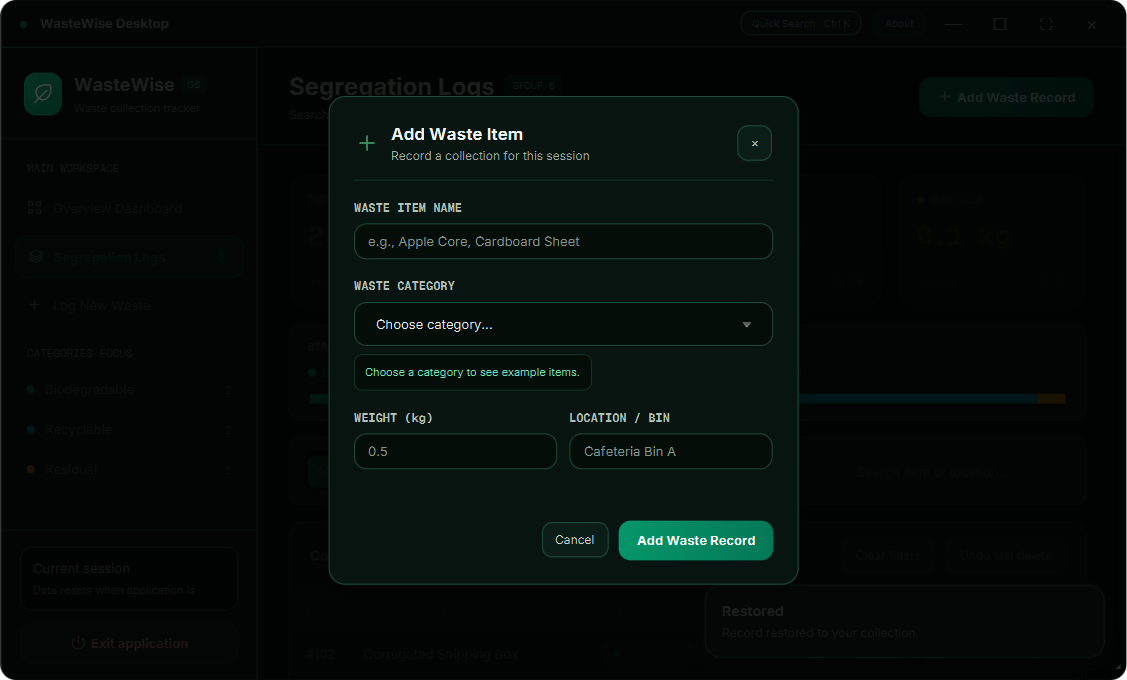
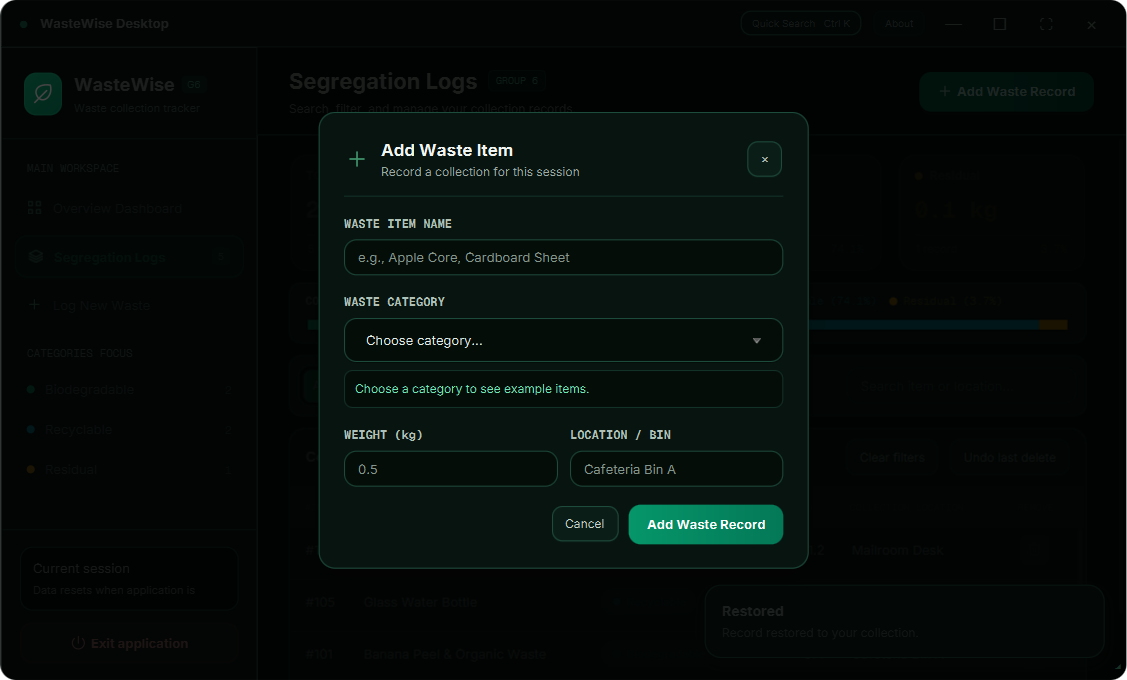
fixed inconsistencies on the interface

diff --git a/src/main/resources/com/group6/wastewise/theme.css b/src/main/resources/com/group6/wastewise/theme.css
@@ -238,3 +238,27 @@
 .about-details { -fx-background-color: #050d09; }
 .about-details .heap-text { -fx-text-fill: #34d399; }
 .toast { -fx-background-color: #0b1d17; -fx-border-color: #1e4d3d; }
+
+/* Consistent rhythm, category colors, and compact records layout. */
+.page-header,.dark-workspace .page-header { -fx-padding: 20 30; -fx-min-height: 88; -fx-pref-height: 88; }
+.page-title,.dark-workspace .page-title { -fx-font-size: 22px; }
+.rec-text { -fx-text-fill: #22d3ee; }
+.rec-badge { -fx-background-color: #ecfeff; -fx-border-color: #a5f3fc; -fx-text-fill: #155e75; }
+.logs-content { -fx-padding: 16 30; }
+.dark-workspace .inventory-stat { -fx-padding: 12 14; }
+.dark-workspace .stat-value { -fx-font-size: 23px; }
+.stat-foot { -fx-padding: 6 0 0 0; }
+.stat-foot .label { -fx-font-size: 11px; }
+.distribution-card { -fx-padding: 10 16; }
+.distribution-legend .label { -fx-font-size: 11px; }
+.dark-workspace .records-toolbar { -fx-padding: 8; }
+.dark-workspace .records-heading { -fx-padding: 10 16; }
+.dark-workspace .ledger-footer { -fx-padding: 9 16; }
+.dark-workspace .quiet:disabled { -fx-opacity: .65; }
+.dark-workspace .table-view .arrow { -fx-background-color: #a9c1b5; }
+.dark-workspace .delete-button:hover SVGPath { -fx-stroke: #fda4af; }
+.dark-workspace .card-link:hover .inventory-stat { -fx-border-color: #34d399; }
+.dark-workspace .card-link:focused { -fx-border-color: #6ee7b7; }
+.dark-workspace .scroll-bar .thumb { -fx-background-color: #47675a; }
+.category-helper { -fx-font-size: 12px; }
+.about-details .progress-bar > .track { -fx-background-color: #143329; }

diff --git a/src/main/java/com/group6/wastewise/WasteWiseApp.java b/src/main/java/com/group6/wastewise/WasteWiseApp.java
@@ -208,7 +208,7 @@ public class WasteWiseApp extends Application {
         body.getStyleClass().add("body-content"); body.setId("overview-page"); body.getChildren().addAll(metrics(), recentActivity());
         scroll.setContent(body); scroll.setFitToWidth(true); scroll.setHbarPolicy(ScrollPane.ScrollBarPolicy.NEVER); scroll.getStyleClass().add("workspace-scroll");
         logsPage = ledger(); logsPage.setId("logs-page");
-        logsPage.setMinHeight(590);
+        logsPage.setMinHeight(Region.USE_COMPUTED_SIZE);
         logsScroll.setContent(logsPage); logsScroll.setFitToWidth(true); logsScroll.setFitToHeight(true);
         logsScroll.setHbarPolicy(ScrollPane.ScrollBarPolicy.NEVER); logsScroll.getStyleClass().add("workspace-scroll");
         workspacePane = new BorderPane(scroll); workspacePane.setTop(header); workspacePane.getStyleClass().add("workspace"); return workspacePane;
@@ -249,7 +249,7 @@ public class WasteWiseApp extends Application {
         }
     }
     private HBox inventoryStats() {
-        HBox stats = new HBox(14);
+        HBox stats = new HBox(14); stats.setMinHeight(118); stats.setPrefHeight(118); stats.setMaxHeight(118);
         VBox all = column(10,label("TOTAL COLLECTION","stat-caption"),logsTotal,statFoot(logsCount,label("All waste","muted"))); all.getStyleClass().addAll("inventory-stat","total-stat");
         stats.getChildren().add(categoryLink(all,null,"logs-all"));
         for (Category c : Category.values()) {
@@ -264,7 +264,7 @@ public class WasteWiseApp extends Application {
         HBox foot = row(4,count,spacer(),share); foot.getStyleClass().add("stat-foot"); return foot;
     }
     private VBox distributionCard() {
-        FlowPane legend = new FlowPane(16,6);
+        FlowPane legend = new FlowPane(12,6); legend.getStyleClass().add("distribution-legend"); legend.setPrefWrapLength(490); legend.setMinWidth(490);
         for (Category c : Category.values()) {
             Label value = label("",c.style()+"-text mono"); ratioLabels.put(c,value);
             legend.getChildren().add(row(6,dot(c),value));
@@ -272,7 +272,7 @@ public class WasteWiseApp extends Application {
         StackPane track = new StackPane(distribution); track.getStyleClass().add("distribution-track");
         distribution.widthProperty().bind(track.widthProperty().subtract(4));
         distribution.widthProperty().addListener((o,a,b) -> drawDistribution());
-        VBox card = column(10,label("STREAM WEIGHT DISTRIBUTION","distribution-title mono"),legend,track);
+        VBox card = column(10,row(12,label("COLLECTION BY WEIGHT","distribution-title mono"),spacer(),legend),track);
         card.getStyleClass().add("distribution-card"); return card;
     }
     private void drawDistribution() {
@@ -290,7 +290,7 @@ public class WasteWiseApp extends Application {
         link.setId(id); link.setGraphic(content); link.setMaxSize(Double.MAX_VALUE,Double.MAX_VALUE); link.setMinWidth(0);
         content.setMaxSize(Double.MAX_VALUE,Double.MAX_VALUE);
         content.prefWidthProperty().bind(link.widthProperty().subtract(4));
-        content.prefHeightProperty().bind(link.heightProperty().subtract(4));
+
         link.setAccessibleText(category == null ? "View all records" : "View " + category + " records");
         link.setTooltip(new Tooltip(link.getAccessibleText()));
         return link;
@@ -324,7 +324,7 @@ public class WasteWiseApp extends Application {
             Label pct = label("0.0% of total", "category-pct mono"); percentages.put(c, pct);
             Label name = label(c.toString(), "category-name " + c.style() + "-text");
             VBox card = column(6, row(6, dot(c), name), row(5, weight, label("kg", "category-pct mono")), pct);
-            card.getStyleClass().add("category-card"); card.setMaxWidth(Double.MAX_VALUE); Button link = categoryLink(card,c,"overview-"+c.style()); link.setMinHeight(124); HBox.setHgrow(link, Priority.ALWAYS); categories.getChildren().add(link);
+            card.getStyleClass().add("category-card"); card.setMaxWidth(Double.MAX_VALUE); Button link = categoryLink(card,c,"overview-"+c.style()); link.setMinHeight(124); link.setPrefHeight(124); link.setMaxHeight(124); card.setPrefHeight(120); card.setMaxHeight(120); HBox.setHgrow(link, Priority.ALWAYS); categories.getChildren().add(link);
         }
         Region heroSpace = new Region(); VBox.setVgrow(heroSpace,Priority.ALWAYS); heroContent.getChildren().addAll(heroSpace,categories);
         Node watermark = icon("leaf","#34d399",230); watermark.setOpacity(.08); watermark.setMouseTransparent(true); StackPane.setAlignment(watermark,Pos.BOTTOM_RIGHT);
@@ -336,7 +336,7 @@ public class WasteWiseApp extends Application {
         StackPane ring = new StackPane(donut, center); VBox.setVgrow(ring, Priority.ALWAYS); ring.setMinHeight(190);
         HBox legend = row(16, row(5, dot(Category.BIODEGRADABLE), label("Bio", "legend")), row(5, dot(Category.RECYCLABLE), label("Rec", "legend")), row(5, dot(Category.RESIDUAL), label("Res", "legend"))); legend.setAlignment(Pos.CENTER); legend.getStyleClass().add("chart-legend");
         chart.getChildren().addAll(chartHeading, ring, legend);
-        HBox metricRow = new HBox(24, hero, chart); chart.prefWidthProperty().bind(metricRow.widthProperty().subtract(48).divide(3)); return metricRow;
+        HBox metricRow = new HBox(24, hero, chart); metricRow.setMinHeight(326); metricRow.setPrefHeight(326); metricRow.setMaxHeight(326); chart.prefWidthProperty().bind(metricRow.widthProperty().subtract(48).divide(3)); return metricRow;
     }
     private VBox ledger() {
         VBox ledger = new VBox(); ledger.getStyleClass().add("ledger");
@@ -349,7 +349,7 @@ public class WasteWiseApp extends Application {
         search.setMinWidth(155); search.setPrefWidth(230); HBox.setHgrow(search,Priority.SOMETIMES);
         clearFilters.setId("clear-filters");
         HBox tableHeading = row(12,label("Collection records","section-title"),spacer(),clearFilters,undo); tableHeading.getStyleClass().add("records-heading");
-        table.setId("waste-table"); table.setColumnResizePolicy(TableView.CONSTRAINED_RESIZE_POLICY_FLEX_LAST_COLUMN); table.setFixedCellSize(52); table.setMinHeight(160); table.setPrefHeight(420); VBox.setVgrow(table,Priority.ALWAYS);
+        table.setId("waste-table"); table.setColumnResizePolicy(TableView.CONSTRAINED_RESIZE_POLICY_FLEX_LAST_COLUMN); table.setFixedCellSize(52); table.setMinHeight(200); table.setPrefHeight(200); VBox.setVgrow(table,Priority.ALWAYS);
         TableColumn<Waste,String> id = textColumn("#ID", w -> "#" + w.getId(), 65); id.setMaxWidth(80);
         id.setComparator(Comparator.comparingInt(value -> Integer.parseInt(value.substring(1))));
         TableColumn<Waste,String> name = textColumn("WASTE NAME / ITEM", Waste::getWasteName, 245);
@@ -366,13 +366,13 @@ public class WasteWiseApp extends Application {
         weight.setCellValueFactory(v -> new javafx.beans.property.ReadOnlyObjectWrapper<>(v.getValue().getWeight()));
         weight.setCellFactory(c -> new TableCell<>() {
             { setStyle("-fx-alignment: CENTER-RIGHT;"); }
-            @Override protected void updateItem(Double value, boolean empty) { super.updateItem(value,empty); setText(empty || value == null ? null : format(value)); }
+            @Override protected void updateItem(Double value, boolean empty) { super.updateItem(value,empty); setText(empty || value == null ? null : format(value)); setTooltip(empty || value == null ? null : new Tooltip(value + " kg")); }
         });
         TableColumn<Waste,String> location = textColumn("COLLECTION LOCATION", Waste::getLocation, 175);
         TableColumn<Waste,Void> actions = new TableColumn<>("REMOVE"); actions.setMinWidth(72); actions.setPrefWidth(75); actions.setMaxWidth(85); actions.setSortable(false);
         actions.setCellFactory(c -> new TableCell<>() {
             private final Button remove = button("", "delete-button", () -> { Waste w = getTableRow().getItem(); if (w != null) delete(w); });
-            { remove.setGraphic(icon("trash", "#40916c", 16)); remove.setTooltip(new Tooltip("Remove record")); remove.setAccessibleText("Remove record"); }
+            { remove.setGraphic(icon("trash", "#9baaa3", 16)); remove.setTooltip(new Tooltip("Remove record")); remove.setAccessibleText("Remove record"); }
             @Override protected void updateItem(Void value, boolean empty) { super.updateItem(value, empty); setGraphic(empty ? null : remove); setAlignment(Pos.CENTER); }
         });
         table.getColumns().addAll(id, name, category, weight, location, actions);
@@ -381,17 +381,23 @@ public class WasteWiseApp extends Application {
         undo.setId("undo-button");
         HBox foot = row(10, footer, spacer(),label("Visible records weight", "muted"),visibleWeight); foot.getStyleClass().add("ledger-footer");
         ledger.getChildren().addAll(tableHeading, table, foot); VBox.setVgrow(ledger,Priority.ALWAYS);
-        VBox page = column(16, inventoryStats(),distributionCard(),tools,ledger); page.getStyleClass().add("logs-content");
+        VBox page = column(12, inventoryStats(),distributionCard(),tools,ledger); page.getStyleClass().add("logs-content");
         return page;
     }
     private TableColumn<Waste,String> textColumn(String title, java.util.function.Function<Waste,String> value, double width) {
-        TableColumn<Waste,String> c = new TableColumn<>(title); c.setPrefWidth(width); c.setCellValueFactory(v -> new ReadOnlyStringWrapper(value.apply(v.getValue()))); return c;
+        TableColumn<Waste,String> c = new TableColumn<>(title); c.setPrefWidth(width); c.setCellValueFactory(v -> new ReadOnlyStringWrapper(value.apply(v.getValue())));
+        c.setCellFactory(column -> new TableCell<>() {
+            @Override protected void updateItem(String text, boolean empty) {
+                super.updateItem(text,empty); setText(empty ? null : text);
+                setTooltip(empty || text == null ? null : new Tooltip(text));
+            }
+        }); return c;
     }
     private ToggleButton filter(String text, Category category, ToggleGroup group) {
         ToggleButton b = new ToggleButton(text); b.getStyleClass().add("filter"); b.setToggleGroup(group); b.setOnAction(e -> setFilter(category)); filterButtons.put(category, b); return b;
     }
     private void setFilter(Category category) { selectedCategory = category; filterButtons.get(category).setSelected(true); refreshTable(); }
-    private void focusSearch() { showView(true); search.requestFocus(); }
+    private void focusSearch() { showView(true); logsScroll.setVvalue(0); Platform.runLater(search::requestFocus); }
     private void clearFilters() { search.clear(); setFilter(null); }
     private void refreshTable() {
         List<Waste> results = tracker.search(search.getText(), selectedCategory);
@@ -439,13 +445,14 @@ public class WasteWiseApp extends Application {
         ComboBox<Category> category = new ComboBox<>(FXCollections.observableArrayList(Category.values())); category.setPromptText("Choose category..."); category.setMaxWidth(Double.MAX_VALUE); category.setId("input-category");
         TextField weight = new TextField(); weight.setPromptText("0.5"); weight.setId("input-weight");
         TextField location = new TextField(); location.setPromptText("Cafeteria Bin A"); location.setId("input-location");
-        Label helper = label("Choose a category to see example items.", "category-helper"); helper.setWrapText(true); helper.setId("category-helper");
+        Label helper = label("Choose a category to see example items.", "category-helper"); helper.setWrapText(true); helper.setMaxWidth(Double.MAX_VALUE); helper.setId("category-helper");
         category.valueProperty().addListener((o,a,c) -> helper.setText(c == null ? "Choose a category to see example items." : switch(c) {
             case BIODEGRADABLE -> "Examples: fruit peels, food scraps, leaves and garden waste.";
             case RECYCLABLE -> "Examples: clean paper, cardboard, bottles and metal cans. Follow local collection rules.";
             case RESIDUAL -> "Examples: used tissues, diapers and non-recyclable wrappers.";
         }));
         Label error = label("", "validation-error"); error.setId("form-error"); error.setWrapText(true);
+        error.managedProperty().bind(error.textProperty().isNotEmpty()); error.visibleProperty().bind(error.managedProperty());
         VBox left = field("WEIGHT (kg)", weight), right = field("LOCATION / BIN", location); HBox.setHgrow(left,Priority.ALWAYS); HBox.setHgrow(right,Priority.ALWAYS);
         Button save = button("Add Waste Record", "primary", () -> {
             try {
@@ -460,21 +467,32 @@ public class WasteWiseApp extends Application {
     }
     private void openExitModal() {
         if (overlay != null) return;
-        Label warning = label("Your records are stored only for this session. Closing the application will remove all logged waste records.", "warning-copy"); warning.setWrapText(true);
-        VBox note = column(10, label("SESSION RECORDS WILL BE LOST", "warning-heading mono"), warning); note.getStyleClass().add("warning-note");
+        boolean hasRecords = !tracker.viewWaste().isEmpty();
+        Label warning = label(hasRecords ? "Closing will remove all " + tracker.viewWaste().size() + " records in this session. Records cannot be recovered after exit." : "There are no collection records in this session. You can safely close the application.", "warning-copy"); warning.setWrapText(true);
+        VBox note = column(10, label(hasRecords ? "SESSION RECORDS WILL BE LOST" : "NO RECORDS TO LOSE", "warning-heading mono"), warning); note.getStyleClass().add("warning-note");
         Button exit = button("Exit application", "danger", () -> { tracker.clear(); stage.hide(); Platform.exit(); }); exit.setId("confirm-exit");
-        VBox card = column(20, modalHeader("Exit Program Confirmation", "Your session has not been saved", "power"), label("Are you sure you want to end this tracking session?", "muted"), note, row(10, spacer(), button("Resume Tracking", "quiet", this::closeModal), exit));
+        VBox card = column(20, modalHeader("Exit WasteWise?", hasRecords ? "Records are stored for this session only" : "Your collection is empty", "power"), label("Are you sure you want to end this tracking session?", "muted"), note, row(10, spacer(), button("Resume Tracking", "quiet", this::closeModal), exit));
         showModal(card);
     }
-    private HBox modalHeader(String title, String subtitle, String icon) { HBox h = row(12, icon(icon,"#40916c",24), column(4,label(title,"modal-title"),label(subtitle,"muted")), spacer(), button("×","quiet",this::closeModal)); h.getStyleClass().add("modal-header"); return h; }
+    private HBox modalHeader(String title, String subtitle, String icon) { HBox h = row(12, icon(icon,"#40916c",24), column(4,label(title,"modal-title"),label(subtitle,"muted")), spacer(), closeDialogButton()); h.getStyleClass().add("modal-header"); return h; }
+    private Button closeDialogButton() {
+        Button close = button("×","quiet",this::closeModal); close.setAccessibleText("Close dialog");
+        close.setTooltip(new Tooltip("Close dialog (Esc)")); return close;
+    }
     private VBox field(String caption, Control control) { return column(7, label(caption,"field-label mono"), control); }
     private void showModal(VBox card) {
         focusBeforeModal = root.getScene().getFocusOwner(); shell.setDisable(true); toastArea.setDisable(true);
-        card.getStyleClass().add("modal-card"); card.setMaxSize(470,Region.USE_PREF_SIZE);
+        card.getStyleClass().add("modal-card"); card.setMaxSize(490,Region.USE_PREF_SIZE);
         overlay = new StackPane(card); overlay.getStyleClass().add("modal-overlay"); overlay.setId("modal-overlay");
         root.getChildren().add(overlay);
         FadeTransition fade = new FadeTransition(Duration.millis(160),overlay); fade.setFromValue(0); fade.setToValue(1); fade.play();
-        Platform.runLater(card::requestFocus);
+        Platform.runLater(() -> {
+            if (overlay != null) {
+                Node field = card.lookup(".text-field");
+                Node firstButton = card.lookup(".button");
+                if (field != null) field.requestFocus(); else if (firstButton != null) firstButton.requestFocus();
+            }
+        });
     }
     private void closeModal() { if (overlay != null) { root.getChildren().remove(overlay); overlay = null; shell.setDisable(false); toastArea.setDisable(false); if (focusBeforeModal != null) focusBeforeModal.requestFocus(); } }
     private void toast(String title, String message) {
@@ -553,14 +571,34 @@ public class WasteWiseApp extends Application {
             resizeWait.setOnFinished(event -> {
                 try {
                     require(root.getWidth() == 1120,"Compact viewport resized"); snapshot(dir.resolve("compact-logs.png"));
+                    require(footer.localToScene(footer.getBoundsInLocal()).getMaxY() < root.getHeight(),"Records footer visible at compact size");
                     overviewNav.fire(); snapshot(dir.resolve("compact.png"));
                     require(overviewNav.getStyleClass().contains("nav-active") && !logsNav.getStyleClass().contains("nav-active"),"Active navigation styling");
                     System.out.println("PASS: JavaFX form, validation, search, filters, delete, undo, empty state, exit cancellation and compact resize");
                     Files.writeString(dir.resolve("ui-test-result.txt"),"PASS: two-screen navigation, retained filters, visible/global totals, clear filters, numeric sorting, sorted deletion and undo, form validation, add, delete, undo, empty states, exit cancellation, compact layouts, About panel and category card navigation; 10 scene snapshots.\n");
-                    testWindowStates();
+                    testMinimumWindow(dir);
                 } catch (Throwable e) { e.printStackTrace(); Platform.exit(); System.exit(1); }
             }); resizeWait.play();
         } catch(Throwable e) { e.printStackTrace(); Platform.exit(); System.exit(1); }
+    }
+    private void testMinimumWindow(Path dir) {
+        stage.setHeight(640);
+        windowCheckLater(() -> {
+            try {
+                logsNav.fire(); root.applyCss(); root.layout(); logsScroll.setVvalue(1);
+                snapshot(dir.resolve("minimum-logs.png"));
+                require(footer.localToScene(footer.getBoundsInLocal()).getMaxY() < root.getHeight(),"Footer reachable at minimum window size");
+                openAddModal();
+                ((ComboBox<Category>)root.lookup("#input-category")).setValue(Category.RECYCLABLE);
+                ((Button)root.lookup("#save-record")).fire();
+                snapshot(dir.resolve("minimum-validation.png"));
+                Node card = root.lookup(".modal-card"); Bounds bounds = card.localToScene(card.getBoundsInLocal());
+                require(bounds.getMinY() >= 0 && bounds.getMaxY() <= root.getHeight(),"Validation dialog fits minimum window");
+                closeModal();
+                System.out.println("PASS: compact footer, minimum window scrolling and validation dialog bounds");
+                testWindowStates();
+            } catch (Exception e) { throw new RuntimeException(e); }
+        });
     }
     private void testWindowStates() {
         ((Button)root.lookup("#window-fullscreen")).fire();

diff --git a/README.md b/README.md
@@ -82,7 +82,7 @@ The proposal originally mentions Swing or console. Its Tools and Technologies se
 
 ## Verification
 
-`build.ps1 -Test` runs 35 model checks covering totals, categories, validation, searches, ID-based removal, undo, clearing and sample data. `-UiTest` additionally checks both screens, retained filters, visible/global totals, clearing filters, numeric sorting, sorted deletion/undo, the real JavaFX form, invalid input, adding, empty states, exit cancellation and window resizing. Ten screenshots are generated under `build/qa/` for visual review. Smoke mode uses its own temporary in-memory session.
+`build.ps1 -Test` runs 35 model checks covering totals, categories, validation, searches, ID-based removal, undo, clearing and sample data. `-UiTest` additionally checks both screens, retained filters, visible/global totals, clearing filters, numeric sorting, sorted deletion/undo, the real JavaFX form, invalid input, adding, empty states, exit cancellation and window resizing. Twelve screenshots are generated under `build/qa/` for visual review. Smoke mode uses its own temporary in-memory session.
 
 The packaged JAR was compiled and run locally. NetBeans itself has not been launched for verification. JavaFX 21 on JDK 26 emits a dependency deprecation warning about `sun.misc.Unsafe`; it did not prevent the tested application from running.
 
@@ -107,3 +107,9 @@ The EcoWise desktop HTML now guides the dark emerald sidebar, title bar, Segrega
 Records include global category percentages and a live weight-distribution bar, independent of table filtering. The add form shows examples for the selected category. Records scroll on smaller windows. Existing validation, sorting, delete/undo, keyboard shortcuts, and session-only storage remain functional. The HTML's placeholder analytics navigation and simulated runtime information are not included.
 
 Verification also checks global distribution percentages, zero-weight resets, dynamic category examples, and minimize/maximize/restore/full-screen controls.
+
+## Interface consistency fixes
+
+Aligned page heading sizes and spacing while retaining the light overview and dark records workspace. Recyclable colors now match across charts, badges, and labels. Records cards have stable heights, the distribution legend is compact, and the table footer fits at 1120 x 740; shorter windows retain scrolling. Long table values have tooltips, and sort indicators and delete controls have clearer contrast.
+
+The add dialog only reserves space for errors when needed, uses full-width category guidance, and focuses the first input. Quick Search returns to the search area. Dialog close buttons have accessible names. Exit messaging distinguishes an empty session from records that will be lost. Added native UI checks for compact footer visibility, scrolling at 1120 x 640, and validation dialog bounds.
